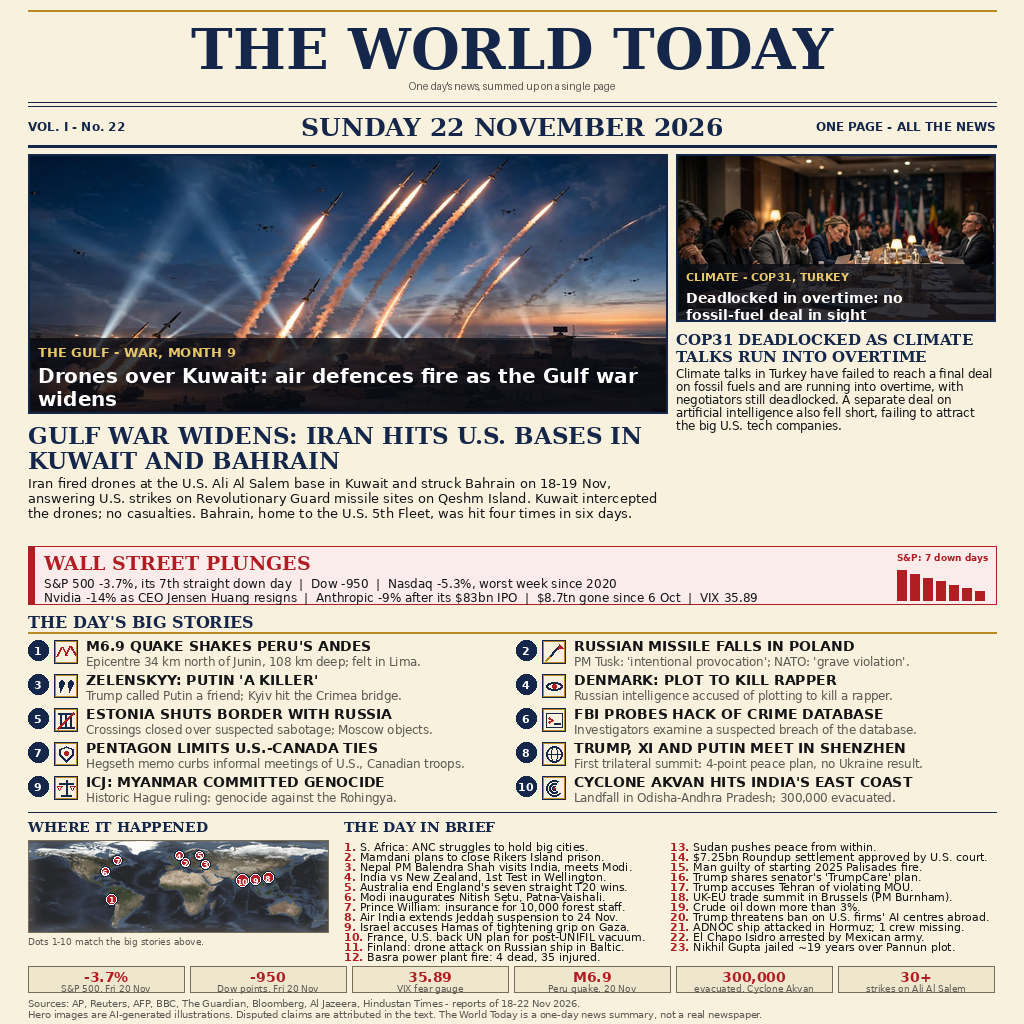
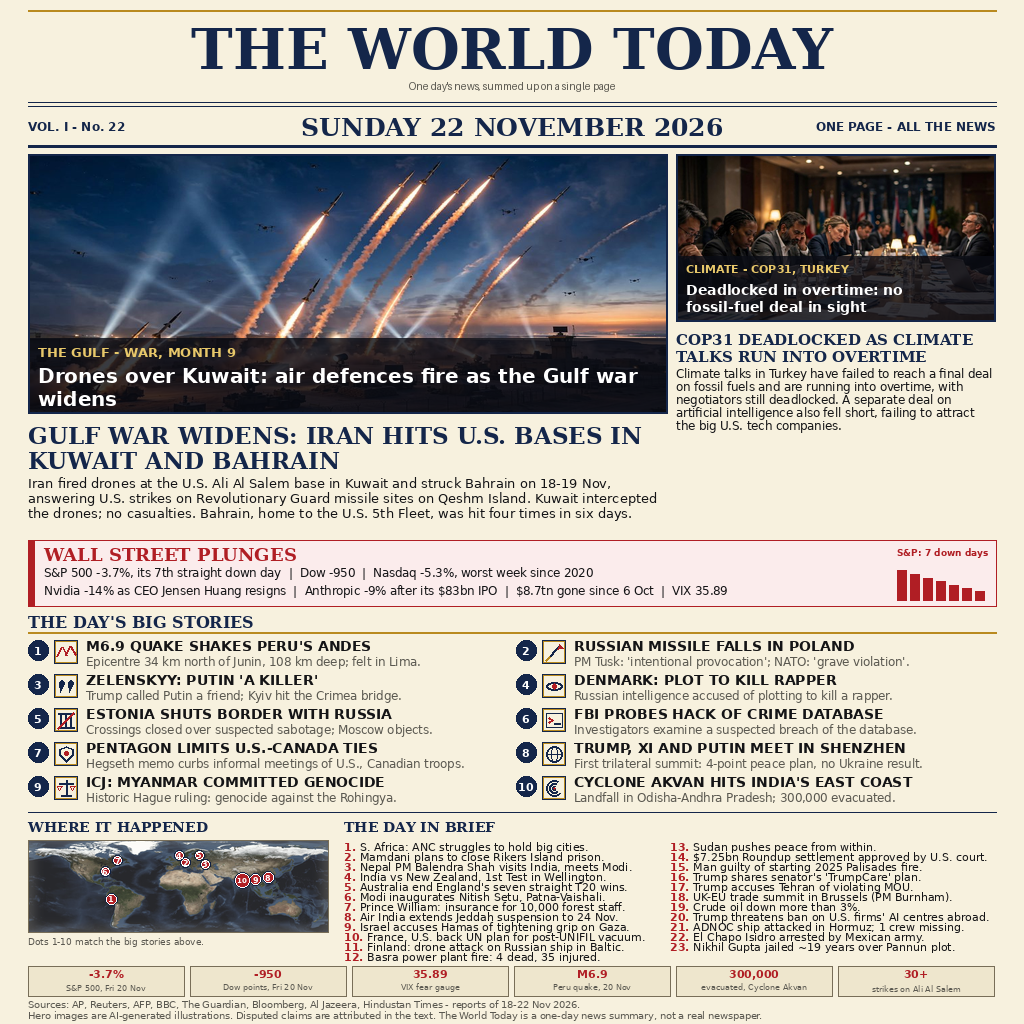
news-image-20261122: clear padding for text inside boxes

diff --git a/composer.py b/composer.py
@@ -301,23 +301,29 @@ def draw_map(draw, page, x0, y0, w, h):
         cy += ny
         # Cluster dots are a touch smaller (radius 4) so neighbours
         # pulled apart by the nudges above never merge; lone dots
-        # stay radius 5, and two-digit 10 stays radius 6.
+        # stay radius 5. Two-digit 10 gets radius 7 and a 7 px label:
+        # at radius 6 its "10" spanned the whole circle and touched
+        # the ring on both sides.
         if num in (2, 3, 4, 5, 6, 7):
             r = 4
         elif num < 10:
             r = 5
         else:
-            r = 6
+            r = 7
         # Thin dark ring only (no filled halo disc): neighbours sit
         # ~8 px apart, so a disc would merge them into one blob.
         draw.ellipse([cx - r - 1, cy - r - 1, cx + r + 1, cy + r + 1],
                      outline=(16, 32, 64), width=1)
         draw.ellipse([cx - r, cy - r, cx + r, cy + r], fill=RED,
                      outline=(255, 255, 255), width=1)
+        # The number sits on its measured ink, centred in the dot:
+        # the old fixed cy-4 put the cluster dots' digits on the
+        # circle's bottom edge (0 px gap) and 10's on its sides.
         label = str(num)
-        tw = draw.textlength(label, font=font(SANS_BOLD, 8))
-        draw.text((cx - tw / 2, cy - 4), label, font=font(SANS_BOLD, 8),
-                  fill=(255, 255, 255))
+        labf = font(SANS_BOLD, 8 if num < 10 else 7)
+        lb = draw.textbbox((0, 0), label, font=labf)
+        draw.text((cx - (lb[0] + lb[2]) / 2, cy - (lb[1] + lb[3]) / 2),
+                  label, font=labf, fill=(255, 255, 255))
 
 
 # ------------------------------------------------------------- hero cards
@@ -465,7 +471,10 @@ def build_page(base_dir):
     paste_hero(draw, page, os.path.join(base_dir, "assets", "hero_cop31.jpg"),
                MX + gulf_w + 8, 154, cop_w, cop_h, "CLIMATE - COP31, TURKEY",
                "Deadlocked in overtime: no fossil-fuel deal in sight",
-               band_h=58, head_size=14, kicker_size=11)
+               # Band 66, not 58: the old band left the headline's second
+               # line 1 px past the photo's bottom frame; the taller band
+               # lifts every caption line clear of the frame.
+               band_h=66, head_size=14, kicker_size=11)
 
     # --- hero story text -------------------------------------------------
     # Gulf text under the big photo, full two-thirds width, biggest
@@ -485,17 +494,31 @@ def build_page(base_dir):
     text_block(draw, cop_x, y + 3, blines, font(SANS, 11.5), INK, 13)
 
     # --- markets strip ----------------------------------------------------
-    draw.rectangle([MX, 546, W - MX, 604], fill=RED_TINT, outline=RED, width=1)
-    draw.rectangle([MX, 546, MX + 6, 604], fill=RED)
-    draw.text((MX + 16, 552), "WALL STREET PLUNGES",
-              font=font(SERIF_BOLD, 19), fill=RED)
+    # Boxed strip: every line sits on measured ink, never on a fixed
+    # y, so no glyph touches a border. The box grew 8 px taller
+    # (540..606) to hold the air: the title's ink starts 8 px below
+    # the top border, the body lines stack off the ink above them,
+    # and the last line's ink ends 8 px above the bottom border.
+    # The strip still clears the Gulf text above by 19 px and the
+    # featured heading below by 10 px.
+    draw.rectangle([MX, 540, W - MX, 606], fill=RED_TINT, outline=RED, width=1)
+    draw.rectangle([MX, 540, MX + 6, 606], fill=RED)
+    mtf = font(SERIF_BOLD, 18)
+    tb = draw.textbbox((0, 0), "WALL STREET PLUNGES", font=mtf)
+    draw.text((MX + 16, 540 + 8 - tb[1]), "WALL STREET PLUNGES",
+              font=mtf, fill=RED)
     mlines = [
         "S&P 500 -3.7%, its 7th straight down day  |  Dow -950  |  "
         "Nasdaq -5.3%, worst week since 2020",
         "Nvidia -14% as CEO Jensen Huang resigns  |  Anthropic -9% after "
         "its $83bn IPO  |  $8.7tn gone since 6 Oct  |  VIX 35.89",
     ]
-    text_block(draw, MX + 16, 576, mlines, font(SANS, 12), INK, 14)
+    mbf = font(SANS, 11.5)
+    ink_top = 540 + 8 + (tb[3] - tb[1]) + 6
+    for line in mlines:
+        lb = draw.textbbox((0, 0), line, font=mbf)
+        draw.text((MX + 16, ink_top - lb[1]), line, font=mbf, fill=INK)
+        ink_top += (lb[3] - lb[1]) + 5
     # seven descending bars: the S&P's seven straight down days
     bars = [30, 26, 22, 19, 15, 12, 9]
     bx = W - MX - 8 - len(bars) * 13
@@ -503,8 +526,10 @@ def build_page(base_dir):
         x0 = bx + i * 13
         draw.rectangle([x0, 600 - bh, x0 + 9, 600], fill=RED)
     blab = "S&P: 7 down days"
-    tw = draw.textlength(blab, font=font(SANS_BOLD, 9))
-    draw.text((W - MX - 8 - tw, 552), blab, font=font(SANS_BOLD, 9),
+    blf = font(SANS_BOLD, 9)
+    tw = draw.textlength(blab, font=blf)
+    bb = draw.textbbox((0, 0), blab, font=blf)
+    draw.text((W - MX - 8 - tw, 540 + 8 - bb[1]), blab, font=blf,
               fill=RED)
 
     # --- featured stories --------------------------------------------------
@@ -555,17 +580,27 @@ def build_page(base_dir):
                   font=font(SANS, 11), fill=INK)
 
     # --- the day in numbers ---------------------------------------------------
+    # Boxed stat cells: the old 26 px cells squeezed the grey label
+    # onto the bottom border — its descenders ran 2 px past the line.
+    # The cells are now 30 px tall (966..996) and both lines sit on
+    # measured ink: the red value's ink starts 4 px below the top
+    # border, the grey label's ink ends 4 px above the bottom border,
+    # and at least 3 px of air stays between the two lines.
     nbox_w = (CW - 5 * 6) // 6
     for i, (val, lab) in enumerate(NUMBERS):
         x = MX + i * (nbox_w + 6)
-        draw.rectangle([x, 966, x + nbox_w, 992], fill=PAPER_DARK,
+        draw.rectangle([x, 966, x + nbox_w, 996], fill=PAPER_DARK,
                        outline=RULE, width=1)
-        vf = font(SANS_BOLD, 14)
-        tw = draw.textlength(val, font=vf)
-        draw.text((x + (nbox_w - tw) / 2, 969), val, font=vf, fill=RED)
-        lf = font(SANS, 9)
-        tw = draw.textlength(lab, font=lf)
-        draw.text((x + (nbox_w - tw) / 2, 983), lab, font=lf, fill=GREY)
+        vf = font(SANS_BOLD, 11)
+        vb = draw.textbbox((0, 0), val, font=vf)
+        # Centred on the ink itself, left-right as well as top-bottom,
+        # so the air around each glyph is symmetric on all four sides.
+        draw.text((x + (nbox_w - (vb[2] - vb[0])) / 2 - vb[0],
+                   966 + 4 - vb[1]), val, font=vf, fill=RED)
+        lf = font(SANS, 8)
+        lb = draw.textbbox((0, 0), lab, font=lf)
+        draw.text((x + (nbox_w - (lb[2] - lb[0])) / 2 - lb[0],
+                   996 - 4 - lb[3]), lab, font=lf, fill=GREY)
 
     # --- footer ----------------------------------------------------------------
     foot1 = ("Sources: AP, Reuters, AFP, BBC, The Guardian, Bloomberg, "
@@ -573,6 +608,8 @@ def build_page(base_dir):
     foot2 = ("Hero images are AI-generated illustrations. Disputed claims "
              "are attributed in the text. The World Today is a one-day news "
              "summary, not a real newspaper.")
-    draw.text((MX, 998), foot1, font=font(SANS, 9.5), fill=GREY)
-    draw.text((MX, 1009), foot2, font=font(SANS, 9.5), fill=GREY)
+    # The stat cells grew 4 px taller (bottom 996), so the footer
+    # moves 1 px down to keep its air below the boxes.
+    draw.text((MX, 999), foot1, font=font(SANS, 9.5), fill=GREY)
+    draw.text((MX, 1010), foot2, font=font(SANS, 9.5), fill=GREY)
     return page
